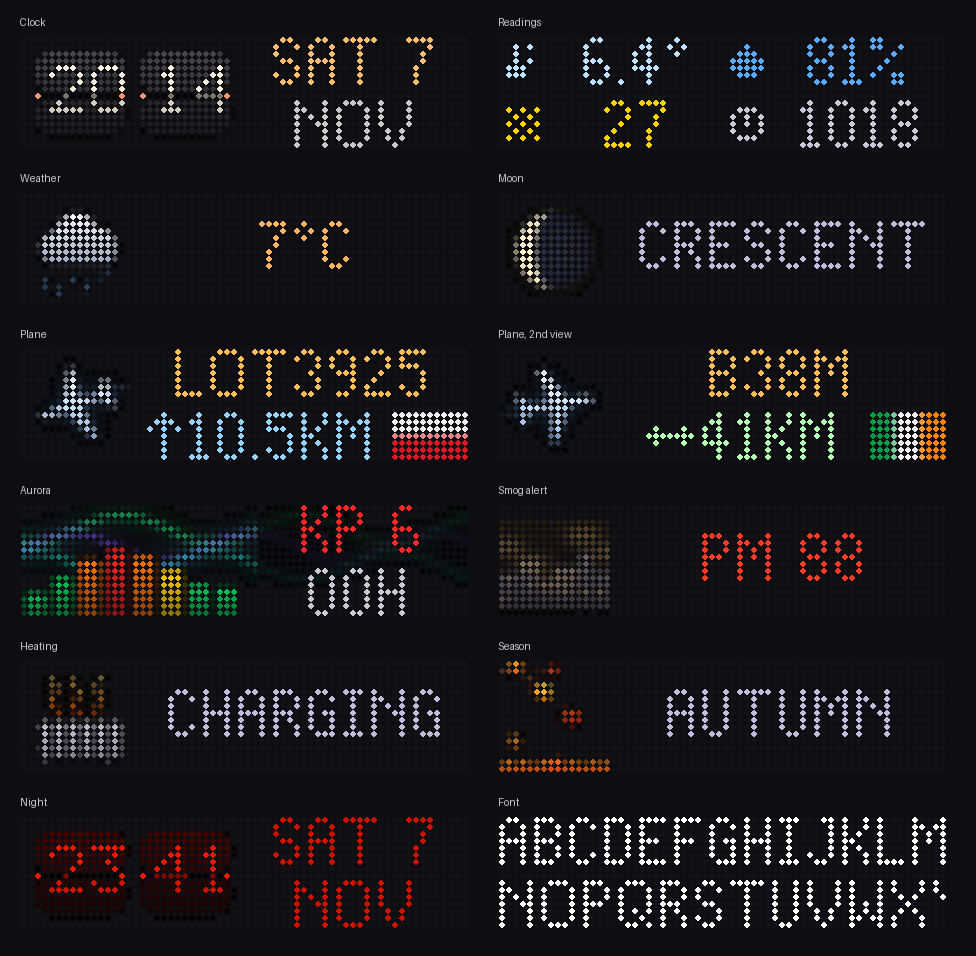
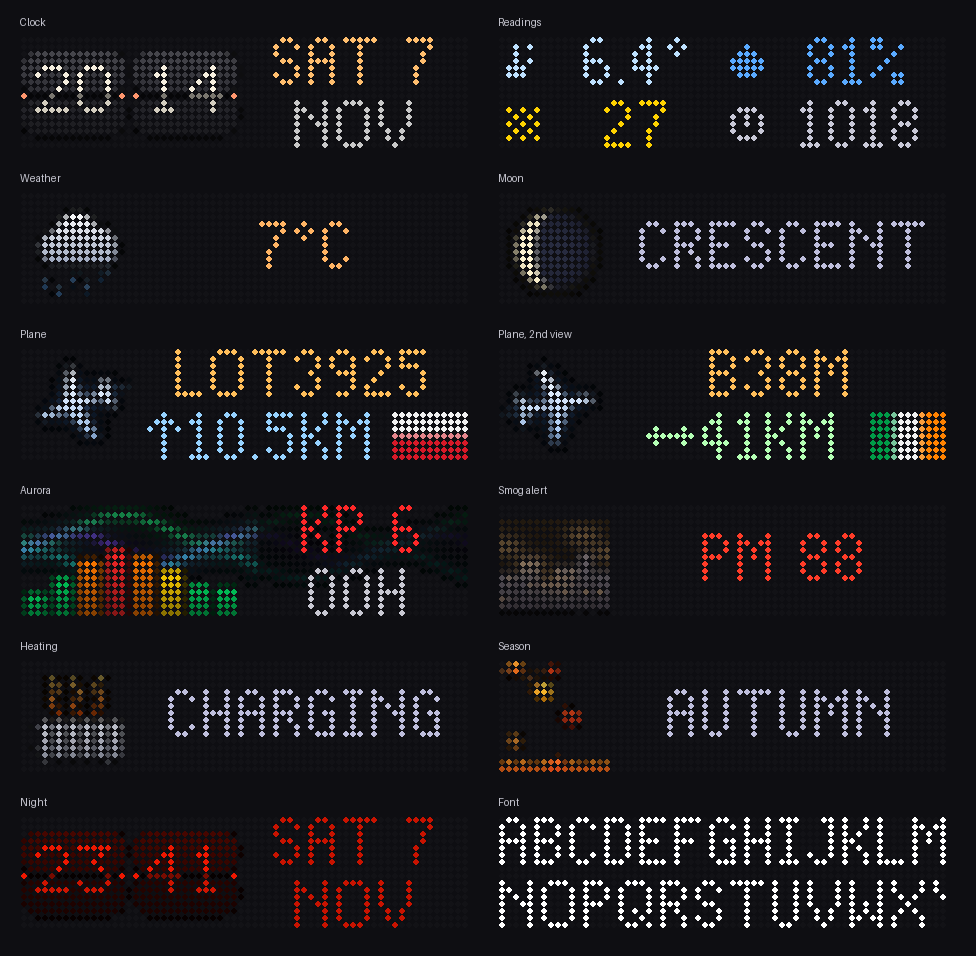
Symmetric 64x16 flip cards; kitchen pot; room set point
64x16 flip cards are 15 pixels wide with the digits centred, so each
pin has one free pixel to the digits on both sides. show_room draws a
pixel-art pot on a gas flame with steam and can show a set point
(e.g. a radiator valve) when there is no humidity. The wide example
reads the kitchen from a climate entity.

Claude-Session: https://claude.ai/code/session_0126mxnvaX8dHVpu6rpKB9fY

Changed region(s): [[0.0, 0.8797, 0.2459, 0.9404], [0.0, 0.0607, 0.1844, 0.1213], [0.2152, 0.0607, 0.2459, 0.1213]]

diff --git a/custom_components/bk_light_panel/boards.py b/custom_components/bk_light_panel/boards.py
@@ -203,24 +203,53 @@ def comfort_color(temperature: float | None) -> RGB:
     return (255, 150, 60)
 
 
-def _house(frame: int) -> Image.Image:
-    c = Canvas()
-    c.paint(c.vgrad((235, 120, 70), (170, 60, 40), 1, 7), c.poly_mask([(7.5, 1.0), (14.5, 7.5), (0.5, 7.5)]))
-    c.paint(c.vgrad((225, 220, 205), (160, 150, 135), 7, 15), c.rrect_mask((2.5, 7.0, 12.5, 15.0), 0.5))
-    glow = 0.75 + 0.25 * math.sin(frame * 0.9)
-    window = c.rrect_mask((4.0, 8.5, 7.5, 11.5), 0.3)
-    c.glow(window, (255, 190, 80), radius=1.0, strength=0.5 * glow)
-    c.paint((255, int(190 * glow), 80), window)
-    c.paint((110, 70, 40), c.rrect_mask((9.0, 10.0, 11.0, 15.0), 0.3))
-    return c.finish().crop((0, 0, 16, 16))
+_POT = (
+    ".......KK.......",
+    "....LLLLLLLL....",
+    "..RRRRRRRRRRRR..",
+    "hhBBBBBBBBBBBBhh",
+    "hhBHBBBBBBBBBBhh",
+    "..BHBBBBBBBBBB..",
+    "..BBBBBBBBBBBB..",
+    "..DBBBBBBBBBBD..",
+    "...DDDDDDDDDD...",
+)
+_POT_COLORS = {"K": (95, 95, 105), "L": (255, 125, 100), "R": (200, 50, 40), "B": (230, 60, 45),
+               "H": (255, 175, 155), "D": (150, 30, 25), "h": (125, 35, 28)}
+
+
+def _kitchen(frame: int) -> Image.Image:
+    """Pixel-art red enamel pot on a gas flame, steam rising."""
+    image = Image.new("RGB", (16, 16), (0, 0, 0))
+    px = image.load()
+    for ry, row in enumerate(_POT):
+        for rx, key in enumerate(row):
+            if key != ".":
+                px[rx, 4 + ry] = _POT_COLORS[key]
+    for x in range(2, 14):  # burner ring and flickering tips
+        px[x, 15] = (50, 100, 255)
+    for x in range(3 + frame % 2, 14, 3):
+        px[x, 14] = (160, 205, 255)
+    for i, x0 in enumerate((5, 8, 11)):  # steam wisps, rising and swaying
+        for k in range(2):
+            y = 3 - ((frame + i * 2 + k * 2) % 4)
+            if 0 <= y <= 3:
+                x = x0 + (1 if (frame + i + y) % 4 < 2 else 0)
+                fade = 0.45 + 0.55 * (y / 3)
+                px[x, y] = tuple(int(v * fade) for v in (225, 225, 240))
+    return image
 
 
 def render_room(
-    name: str, temperature: float | None, humidity: float | None = None, frame: int = 0
+    name: str,
+    temperature: float | None,
+    humidity: float | None = None,
+    frame: int = 0,
+    target: float | None = None,
 ) -> Image.Image:
-    """House with a lit window; room name, temperature (comfort colour), humidity."""
+    """Steaming pot; room name, temperature (comfort colour), humidity or set point."""
     image = _blank()
-    image.paste(_house(frame), (0, 0))
+    image.paste(_kitchen(frame), (0, 0))
     pixels = image.load()
     label = name.upper()
     while label and font7.width(label) > 46:
@@ -232,6 +261,9 @@ def render_room(
     if humidity is not None:
         hum = f"{humidity:.0f}%"
         font7.draw(pixels, hum, W - font7.width(hum), 9, (90, 170, 255))
+    elif target is not None:  # e.g. a radiator valve: what it is heating to
+        aim = f"→{target:.0f}°"
+        _small(pixels, aim, W - text_width(aim), 11, (255, 170, 90))
     return image
 
 

diff --git a/custom_components/bk_light_panel/__init__.py b/custom_components/bk_light_panel/__init__.py
@@ -198,7 +198,8 @@ SHOW_ROOM_SCHEMA = vol.Schema(
     {**BASE, **ANIMATION,
      vol.Required("name"): cv.string,
      vol.Optional("temperature"): vol.Any(None, cv.string, vol.Coerce(float)),
-     vol.Optional("humidity"): vol.Any(None, cv.string, vol.Coerce(float))}
+     vol.Optional("humidity"): vol.Any(None, cv.string, vol.Coerce(float)),
+     vol.Optional("target"): vol.Any(None, cv.string, vol.Coerce(float))}
 )
 SHOW_SKY_SCHEMA = vol.Schema(
     {**BASE, **ANIMATION,
@@ -550,10 +551,11 @@ async def async_setup(hass: HomeAssistant, config: ConfigType) -> bool:
             return None
 
     async def show_room(call: ServiceCall) -> None:
-        """A room: house with a lit window, name, temperature, humidity."""
+        """A room: steaming pot, name, temperature, humidity (or the set point)."""
         panel = await _wide_panel(call)
         temp, hum = _number(call.data.get("temperature")), _number(call.data.get("humidity"))
-        await _play(call, panel, lambda f: render_room(call.data["name"], temp, hum, f))
+        target = _number(call.data.get("target"))
+        await _play(call, panel, lambda f: render_room(call.data["name"], temp, hum, f, target))
 
     async def _history(entity_id: str, start) -> list[tuple]:
         """(time, number) pairs from the recorder since start; [] without a recorder."""

diff --git a/custom_components/bk_light_panel/render.py b/custom_components/bk_light_panel/render.py
@@ -74,6 +74,7 @@ _GLYPHS: dict[str, tuple[str, ...]] = {
     "°": (".#.", "#.#", ".#.", "...", "..."),
     "↑": (".#.", "###", "#.#", ".#.", ".#."),
     "↓": (".#.", ".#.", "#.#", "###", ".#."),
+    "→": ("..#.", "...#", "####", "...#", "..#."),
     "↔": (".....", ".#.#.", "#####", ".#.#.", "....."),
 }
 
@@ -317,8 +318,12 @@ def _flip_face(
     hinge: int = HINGE,
     digit_top: int = DIGIT_TOP,
     radius: float = 1.2,
+    centred: bool = False,
 ) -> Image.Image:
-    """Two split-flap cards with the digits, no animation."""
+    """Two split-flap cards with the digits, no animation.
+
+    centred: odd-width cards with the digits exactly between the pins.
+    """
     from .gfx import Canvas  # gfx does not import render, no cycle
 
     c = Canvas()
@@ -333,7 +338,7 @@ def _flip_face(
     digits = (time_text.replace(":", "") + "----")[:4]
     for card, (x0, x1) in enumerate(cards):
         pair = digits[card * 2: card * 2 + 2]
-        x = x0 + (x1 - x0 - 11) // 2 + 1
+        x = x0 + (x1 - x0 - 11) // 2 + (0 if centred else 1)
         for ch in pair:
             glyph = _BIG.get(ch, _BIG["-"])
             for ry, row in enumerate(glyph):

diff --git a/custom_components/bk_light_panel/wide.py b/custom_components/bk_light_panel/wide.py
@@ -32,8 +32,9 @@ from .render import (
 
 WIDTH, HEIGHT = 64, 16
 # smaller, rounder flip cards for the 16 pixel high panel
-FLIP_CARDS = {"cards": ((2, 15), (17, 30)), "top": 2, "bottom": 14, "hinge": 8,
-              "digit_top": 4, "radius": 2.6}
+# 15 wide: pin, 1 free, 11 digits, 1 free, pin - the same on both sides
+FLIP_CARDS = {"cards": ((0, 15), (16, 31)), "top": 2, "bottom": 14, "hinge": 8,
+              "digit_top": 4, "radius": 2.6, "centred": True}
 SIZE = (WIDTH, HEIGHT)
 RGB = tuple[int, int, int]
 

diff --git a/CHANGELOG.md b/CHANGELOG.md
@@ -14,10 +14,11 @@
   different one out to the left. 64×16 flip cards are smaller with rounder corners.
 - New 64×16 screens: `show_sky_graph` (24 h temperature from history and the hourly
   forecast, day warm with a sun, night blue with stars), `show_room` (a room's
-  temperature and humidity), `show_traffic` (network download / upload of the last
+  temperature and humidity or set point, with a steaming pot), `show_traffic` (network download / upload of the last
   minutes from history, e.g. SNMP sensors of a router), `show_retro` (Atari `READY.`,
   Commodore 64 start-up screen, Space Invaders). On 64×16 the nearest plane becomes a
-  flight board showing the nearest planes in turn (`count`).
+  flight board showing the nearest planes in turn (`count`). 64×16 flip cards are 15
+  pixels wide, with the digits centred between the pins.
 - Example package `examples/led_panel_wide.yaml`: a 64×16 panel as a second clock with
   the date, alternating with the outdoor readings, red at night.
 
